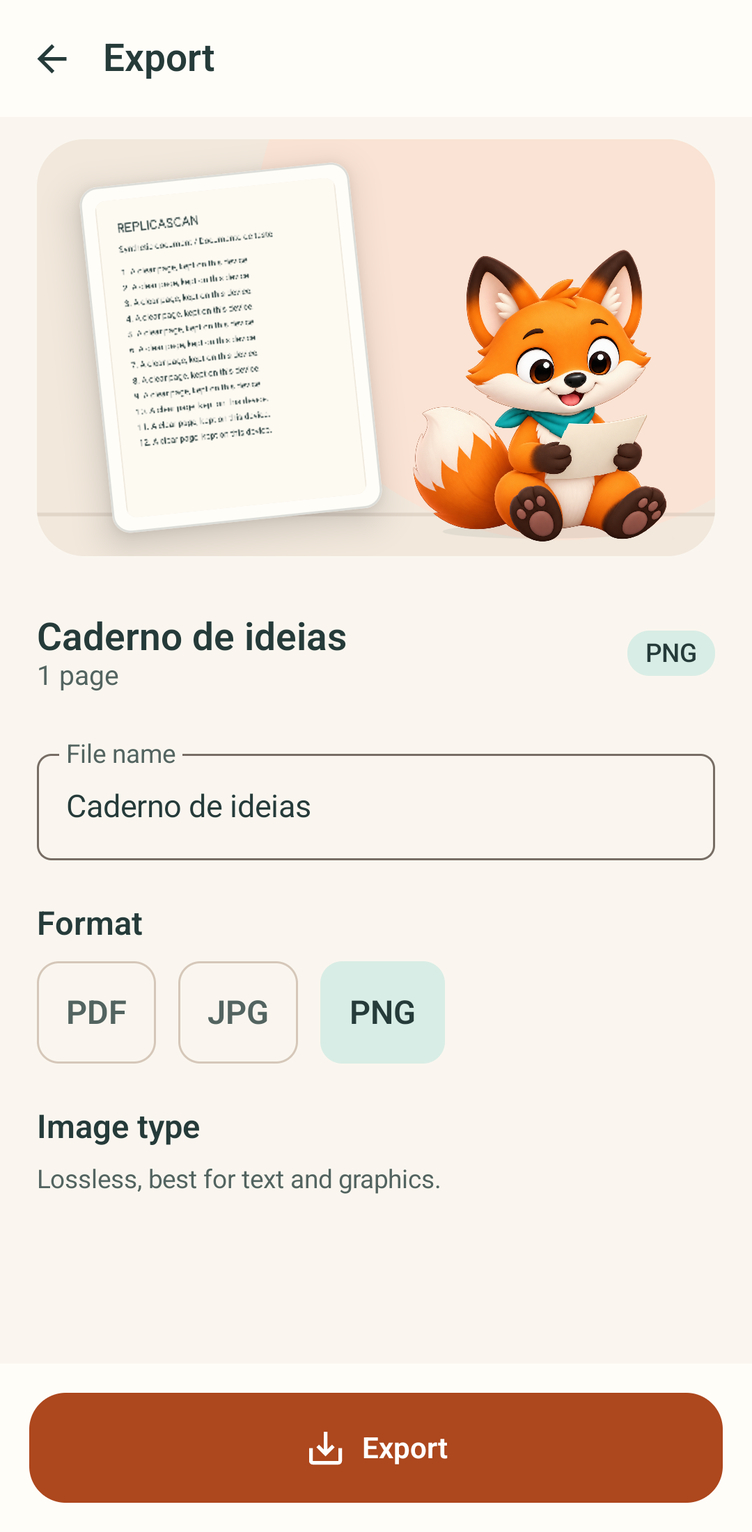
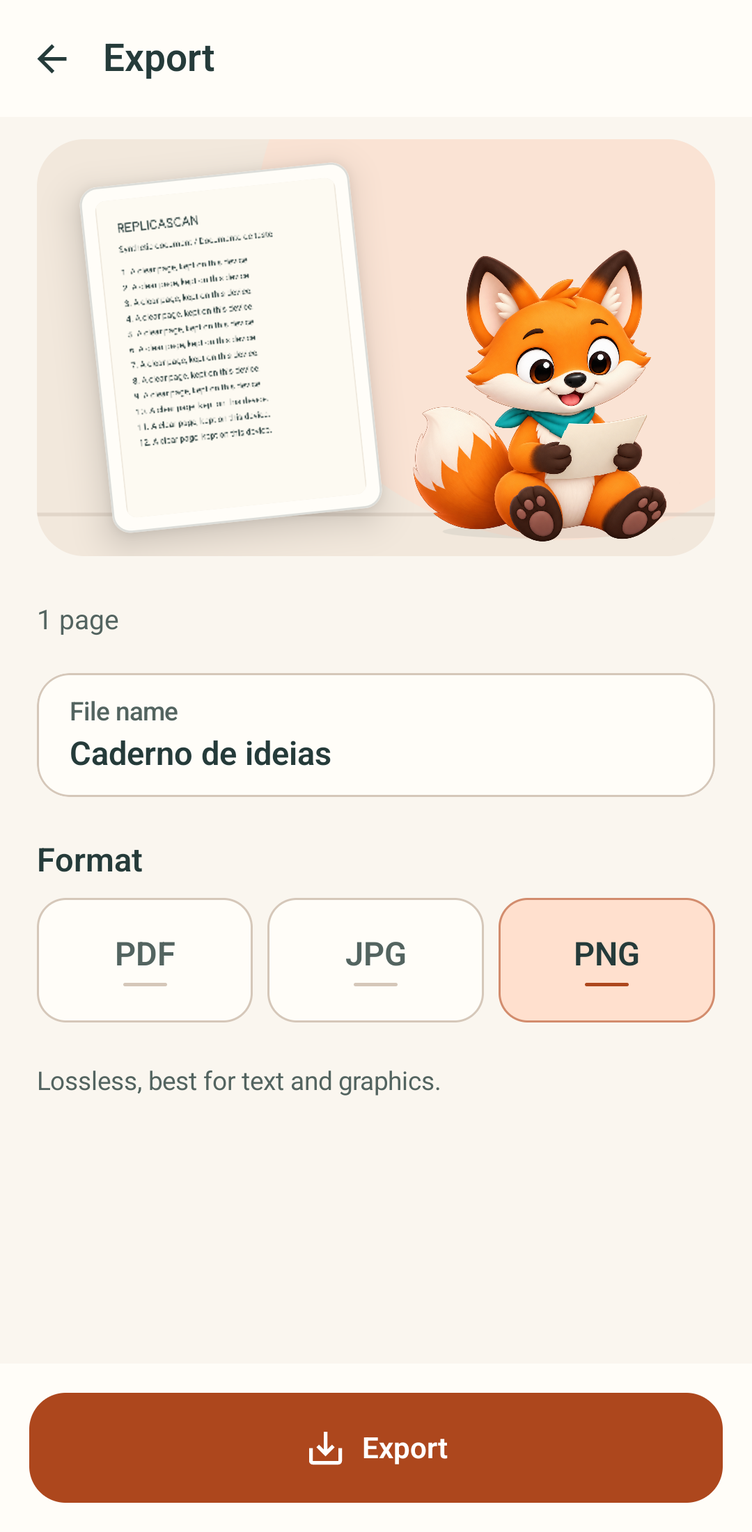
feat(export): refine document-first setup

diff --git a/feature-export/src/main/java/com/soturine/replicascan/feature/export/ExportScreen.kt b/feature-export/src/main/java/com/soturine/replicascan/feature/export/ExportScreen.kt
@@ -3,11 +3,13 @@ package com.soturine.replicascan.feature.export
 import androidx.activity.compose.BackHandler
 import androidx.compose.foundation.layout.Row
 import androidx.compose.foundation.layout.Box
+import androidx.compose.foundation.BorderStroke
 import androidx.compose.foundation.layout.size
 import androidx.compose.foundation.Canvas
 import androidx.compose.foundation.background
 import androidx.compose.foundation.border
-import androidx.compose.material3.OutlinedTextField
+import androidx.compose.foundation.text.BasicTextField
+import androidx.compose.foundation.text.KeyboardOptions
 import androidx.compose.ui.platform.testTag
 import androidx.compose.ui.layout.ContentScale
 import com.soturine.replicascan.core.ui.component.AsyncUriImage
@@ -46,7 +48,6 @@ import androidx.compose.material3.SnackbarHost
 import androidx.compose.material3.SnackbarHostState
 import androidx.compose.material3.Surface
 import androidx.compose.material3.Text
-import androidx.compose.material3.TextButton
 import androidx.compose.material3.TopAppBar
 import androidx.compose.runtime.Composable
 import androidx.compose.runtime.getValue
@@ -61,6 +62,7 @@ import androidx.compose.ui.draw.shadow
 import androidx.compose.ui.geometry.Offset
 import androidx.compose.ui.graphics.graphicsLayer
 import androidx.compose.ui.graphics.luminance
+import androidx.compose.ui.graphics.SolidColor
 import androidx.compose.ui.platform.LocalDensity
 import androidx.compose.foundation.shape.RoundedCornerShape
 import androidx.compose.ui.res.pluralStringResource
@@ -68,8 +70,11 @@ import androidx.compose.ui.res.stringResource
 import androidx.compose.ui.semantics.LiveRegionMode
 import androidx.compose.ui.semantics.heading
 import androidx.compose.ui.semantics.liveRegion
+import androidx.compose.ui.semantics.contentDescription
+import androidx.compose.ui.semantics.selected
 import androidx.compose.ui.semantics.semantics
 import androidx.compose.ui.text.style.TextAlign
+import androidx.compose.ui.text.input.ImeAction
 import androidx.compose.ui.unit.dp
 import com.soturine.replicascan.core.common.model.ExportFormat
 import com.soturine.replicascan.core.common.model.ExportedFile
@@ -134,6 +139,7 @@ fun ExportScreen(
                         ReplicaScanPrimaryButton(
                             text = stringResource(R.string.export_action),
                             onClick = { onExport(nameValidation.sanitizedValue) },
+                            modifier = Modifier.testTag("export-action"),
                             enabled = nameValidation.isValid && scan.pages.isNotEmpty(),
                             icon = {
                                 Icon(Icons.Outlined.SaveAlt, contentDescription = null)
@@ -206,24 +212,12 @@ private fun ExportOptions(
                     scan = scan,
                     mascotState = if (errorText == null) ReplicaScanMascotState.Ocr else ReplicaScanMascotState.Attention,
                 )
-                Row(
-                    Modifier.fillMaxWidth().padding(top = 16.dp, bottom = 8.dp),
-                    verticalAlignment = Alignment.CenterVertically,
-                    horizontalArrangement = Arrangement.spacedBy(12.dp),
-                ) {
-                    Column(Modifier.weight(1f)) {
-                        Text(scan.title, style = MaterialTheme.typography.titleLarge)
-                        Text(
-                            pluralStringResource(R.plurals.export_summary, pageCount, pageCount),
-                            style = MaterialTheme.typography.bodyMedium,
-                            color = MaterialTheme.colorScheme.onSurfaceVariant,
-                        )
-                    }
-                    Surface(shape = MaterialTheme.shapes.small, color = MaterialTheme.colorScheme.secondaryContainer) {
-                        Text(state.selectedFormat.title, modifier = Modifier.padding(horizontal = 10.dp, vertical = 4.dp),
-                            style = MaterialTheme.typography.labelMedium)
-                    }
-                }
+                Text(
+                    pluralStringResource(R.plurals.export_summary, pageCount, pageCount),
+                    modifier = Modifier.padding(top = 10.dp, bottom = 4.dp),
+                    style = MaterialTheme.typography.bodyMedium,
+                    color = MaterialTheme.colorScheme.onSurfaceVariant,
+                )
             }
             if (errorText != null) {
                 Column(
@@ -238,20 +232,44 @@ private fun ExportOptions(
                     Text(errorText, style = MaterialTheme.typography.bodyMedium)
                 }
             }
-            OutlinedTextField(value = fileName, onValueChange = onNameChange, modifier = Modifier.fillMaxWidth(),
-                label = { Text(stringResource(R.string.export_filename)) }, singleLine = true, isError = !nameValid,
-                supportingText = if (!nameValid) ({ Text(stringResource(R.string.export_filename_invalid)) }) else null)
+            ExportFilenameField(fileName, onNameChange, nameValid)
             Section(stringResource(R.string.export_format_section)) {
-                FlowRow(horizontalArrangement = Arrangement.spacedBy(12.dp)) {
+                Row(horizontalArrangement = Arrangement.spacedBy(8.dp), modifier = Modifier.fillMaxWidth()) {
                     ExportFormat.entries.forEach { format ->
-                        FilterChip(selected = state.selectedFormat == format, onClick = { onSelectFormat(format) },
-                            label = { Text(format.title, style = MaterialTheme.typography.titleMedium) },
-                            modifier = Modifier.heightIn(min = 56.dp).testTag("format-${format.name}"))
+                        ExportFormatChoice(
+                            format = format,
+                            selected = state.selectedFormat == format,
+                            onClick = { onSelectFormat(format) },
+                            modifier = Modifier.weight(1f).testTag("format-${format.name}"),
+                        )
                     }
                 }
             }
             if (isPdf) {
-                Section(stringResource(R.string.export_quality_section)) {
+                Surface(
+                    onClick = { moreOptions = !moreOptions },
+                    modifier = Modifier.fillMaxWidth().padding(top = 8.dp).testTag("export-quality-disclosure"),
+                    shape = RoundedCornerShape(18.dp),
+                    color = MaterialTheme.colorScheme.surfaceContainerLow,
+                ) {
+                    Row(
+                        Modifier.padding(horizontal = 16.dp, vertical = 14.dp),
+                        verticalAlignment = Alignment.CenterVertically,
+                        horizontalArrangement = Arrangement.spacedBy(12.dp),
+                    ) {
+                        Column(Modifier.weight(1f), verticalArrangement = Arrangement.spacedBy(2.dp)) {
+                            Text(stringResource(R.string.export_quality_section), style = MaterialTheme.typography.labelMedium,
+                                color = MaterialTheme.colorScheme.onSurfaceVariant)
+                            Text(state.selectedQuality.localizedTitle(), style = MaterialTheme.typography.titleMedium)
+                            Text(state.selectedQuality.localizedDescription(), style = MaterialTheme.typography.bodySmall,
+                                color = MaterialTheme.colorScheme.onSurfaceVariant)
+                        }
+                        Icon(if (moreOptions) Icons.Outlined.ExpandLess else Icons.Outlined.ExpandMore,
+                            contentDescription = null)
+                    }
+                }
+                AnimatedVisibility(visible = moreOptions) {
+                    Column(Modifier.fillMaxWidth().padding(top = 8.dp), verticalArrangement = Arrangement.spacedBy(8.dp)) {
                     FlowRow(horizontalArrangement = Arrangement.spacedBy(8.dp)) {
                         PdfQuality.entries.forEach { quality ->
                             FilterChip(
@@ -262,18 +280,6 @@ private fun ExportOptions(
                             )
                         }
                     }
-                    Text(
-                        text = state.selectedQuality.localizedDescription(),
-                        style = MaterialTheme.typography.bodySmall,
-                        color = MaterialTheme.colorScheme.onSurfaceVariant,
-                    )
-                }
-                TextButton(onClick = { moreOptions = !moreOptions }) {
-                    Text(stringResource(R.string.export_more_options))
-                    Spacer(Modifier.width(4.dp))
-                    Icon(if (moreOptions) Icons.Outlined.ExpandLess else Icons.Outlined.ExpandMore, contentDescription = null)
-                }
-                AnimatedVisibility(visible = moreOptions) {
                     Section(stringResource(R.string.export_page_size_section)) {
                         FlowRow(horizontalArrangement = Arrangement.spacedBy(8.dp)) {
                             PdfPageSize.entries.forEach { size ->
@@ -294,18 +300,77 @@ private fun ExportOptions(
                             }
                         }
                     }
+                    }
                 }
             } else {
-                Section(stringResource(R.string.export_image_format_section)) {
-                    Text(
-                        text = stringResource(
-                            if (state.selectedFormat == ExportFormat.PNG) R.string.export_png_description else R.string.export_jpg_description,
-                        ),
-                        style = MaterialTheme.typography.bodySmall,
-                        color = MaterialTheme.colorScheme.onSurfaceVariant,
-                    )
-                }
+                Text(
+                    text = stringResource(
+                        if (state.selectedFormat == ExportFormat.PNG) R.string.export_png_description else R.string.export_jpg_description,
+                    ),
+                    modifier = Modifier.padding(top = 8.dp),
+                    style = MaterialTheme.typography.bodySmall,
+                    color = MaterialTheme.colorScheme.onSurfaceVariant,
+                )
             }
+        }
+    }
+}
+
+@Composable
+private fun ExportFilenameField(value: String, onValueChange: (String) -> Unit, isValid: Boolean) {
+    val colors = MaterialTheme.colorScheme
+    val label = stringResource(R.string.export_filename)
+    val shape = RoundedCornerShape(18.dp)
+    Column(verticalArrangement = Arrangement.spacedBy(4.dp)) {
+        BasicTextField(
+            value = value,
+            onValueChange = onValueChange,
+            modifier = Modifier.fillMaxWidth().clip(shape)
+                .background(colors.surfaceContainerLow)
+                .border(1.dp, if (isValid) colors.outlineVariant else colors.error, shape)
+                .testTag("export-filename")
+                .semantics { contentDescription = label },
+            textStyle = MaterialTheme.typography.titleMedium.copy(color = colors.onSurface),
+            singleLine = true,
+            cursorBrush = SolidColor(colors.primary),
+            keyboardOptions = KeyboardOptions(imeAction = ImeAction.Done),
+            decorationBox = { innerTextField ->
+                Column(Modifier.padding(horizontal = 18.dp, vertical = 13.dp),
+                    verticalArrangement = Arrangement.spacedBy(4.dp)) {
+                    Text(label, style = MaterialTheme.typography.labelMedium, color = colors.onSurfaceVariant)
+                    Box(Modifier.fillMaxWidth()) {
+                        if (value.isEmpty()) Text(label, style = MaterialTheme.typography.titleMedium,
+                            color = colors.onSurfaceVariant)
+                        innerTextField()
+                    }
+                }
+            },
+        )
+        if (!isValid) Text(stringResource(R.string.export_filename_invalid),
+            style = MaterialTheme.typography.bodySmall, color = colors.error)
+    }
+}
+
+@Composable
+private fun ExportFormatChoice(format: ExportFormat, selected: Boolean, onClick: () -> Unit, modifier: Modifier = Modifier) {
+    val colors = MaterialTheme.colorScheme
+    Surface(
+        onClick = onClick,
+        modifier = modifier.heightIn(min = 68.dp).semantics { this.selected = selected },
+        shape = RoundedCornerShape(16.dp),
+        color = if (selected) colors.primaryContainer else colors.surfaceContainerLow,
+        border = BorderStroke(1.dp, if (selected) colors.primary.copy(alpha = .55f) else colors.outlineVariant),
+    ) {
+        Column(
+            Modifier.padding(horizontal = 8.dp, vertical = 12.dp),
+            horizontalAlignment = Alignment.CenterHorizontally,
+            verticalArrangement = Arrangement.spacedBy(5.dp, Alignment.CenterVertically),
+        ) {
+            Text(format.title, style = MaterialTheme.typography.titleMedium,
+                color = if (selected) colors.onPrimaryContainer else colors.onSurfaceVariant)
+            Box(Modifier.width(24.dp).height(2.dp).background(
+                if (selected) colors.primary else colors.outlineVariant,
+                RoundedCornerShape(2.dp)))
         }
     }
 }

diff --git a/docs/design/visual-recovery/evidence/review.html b/docs/design/visual-recovery/evidence/review.html
@@ -24,7 +24,7 @@
   <p>À esquerda, a captura rejeitada do ciclo anterior. À direita, o estado atual renderizado pelo Compose no emulador Android 14 / API 34, com documento sintético e estados injetados. A prévia de exportação em andamento foi recapturada após a mudança funcional. Esta prancha é evidência para revisão, não aceite estético nem prova de câmera, OCR ou exportação reais.</p>
   <nav aria-label="Ir para tela">
     <a href="#home">Home</a><a href="#large-type">Fonte 200%</a><a href="#review">Revisão</a><a href="#crop">Recorte</a>
-    <a href="#export">Exportação</a><a href="#export-eyes">Olhos da raposa</a><a href="#progress">Progresso</a><a href="#success">Sucesso</a>
+    <a href="#export">Exportação</a><a href="#export-setup">Preparo refinado</a><a href="#export-eyes">Olhos da raposa</a><a href="#progress">Progresso</a><a href="#success">Sucesso</a>
     <a href="#onboarding">Introdução</a><a href="#ocr">OCR</a><a href="#history">Histórico</a><a href="#search-empty">Busca vazia</a>
     <a href="#settings">Configurações</a><a href="#launcher">Ícone</a>
   </nav>
@@ -33,6 +33,7 @@
   <section id="review"><h2>Revisão</h2><div class="pair"><figure><figcaption>Anterior</figcaption><img src="../../evidence/review.png" alt="Revisão anterior"></figure><figure><figcaption>Atual</figcaption><img src="review.png" alt="Revisão atual"></figure></div></section>
   <section id="crop"><h2>Recorte</h2><div class="pair"><figure><figcaption>Anterior</figcaption><img src="../../evidence/crop.png" alt="Recorte anterior"></figure><figure><figcaption>Atual</figcaption><img src="crop.png" alt="Recorte atual"></figure></div></section>
   <section id="export"><h2>Opções de exportação</h2><div class="pair"><figure><figcaption>Anterior</figcaption><img src="../../evidence/export.png" alt="Opções anteriores"></figure><figure><figcaption>Atual</figcaption><img src="export.png" alt="Opções atuais"></figure></div></section>
+  <section id="export-setup"><h2>Preparo do arquivo · rodada de acabamento</h2><p>O documento e a raposa continuam na cena. A captura atual tira o título repetido, integra o nome editável, torna PDF/JPG/PNG escolhas mais legíveis e recolhe a qualidade e o tamanho da página atrás de uma seleção contextual.</p><div class="pair"><figure><figcaption>Antes · campo e chips</figcaption><img src="export-setup-before.png" alt="Preparo anterior com campo contornado e chips"></figure><figure><figcaption>Depois · arquivo e escolhas</figcaption><img src="export.png" alt="Preparo atual com nome de arquivo, formatos e qualidade contextual"></figure></div></section>
   <section id="export-eyes"><h2>Correção da piscada na exportação</h2><p>A máscara da piscada deixava aparecer o contorno dos olhos abertos sobre as pálpebras fechadas. A captura atual mostra a piscada limpa; a tela de exportação acima foi recapturada com os olhos abertos.</p><div class="pair"><figure><figcaption>Antes · contorno duplicado</figcaption><img src="export-eye-before.png" alt="Raposa piscando com traços duplicados acima das pálpebras"></figure><figure><figcaption>Depois · piscada corrigida</figcaption><img src="export-blink.png" alt="Raposa piscando sem traços duplicados"></figure></div></section>
   <section id="progress"><h2>Exportação em andamento</h2><div class="pair"><figure><figcaption>Anterior</figcaption><img src="../../evidence/export-progress.png" alt="Progresso anterior"></figure><figure><figcaption>Atual</figcaption><img src="export-progress.png" alt="Progresso atual com prévia e raposa trabalhando"></figure></div></section>
   <section id="success"><h2>Exportação concluída</h2><div class="pair"><figure><figcaption>Anterior</figcaption><img src="../../evidence/export-success.png" alt="Sucesso anterior"></figure><figure><figcaption>Atual</figcaption><img src="export-success.png" alt="Sucesso atual"></figure></div></section>

diff --git a/app/src/androidTest/java/com/soturine/replicascan/RebrandVisualTest.kt b/app/src/androidTest/java/com/soturine/replicascan/RebrandVisualTest.kt
@@ -161,6 +161,32 @@ class RebrandVisualTest {
         assertTrue(quad.bottomRight.x < 1f && quad.bottomRight.y < 1f)
     }
 
+    @Test fun exportChoicesKeepFormatSpecificOptions() {
+        var state by mutableStateOf(ExportUiState(scan = fixture()))
+        rule.setContent {
+            ReplicaScanTheme {
+                ExportScreen(
+                    state = state,
+                    onSelectFormat = { state = state.copy(selectedFormat = it) },
+                    onSelectQuality = { state = state.copy(selectedQuality = it) },
+                    onSelectPageSize = { state = state.copy(selectedPageSize = it) },
+                    onExport = {}, onShare = {}, onOpenFile = {}, onBack = {}, onClearMessage = {},
+                )
+            }
+        }
+        rule.onNodeWithTag("format-JPG").performClick()
+        rule.runOnIdle { assertEquals(ExportFormat.JPG, state.selectedFormat) }
+        rule.onNodeWithTag("export-quality-disclosure").assertDoesNotExist()
+        rule.onNodeWithTag("format-PDF").performClick()
+        rule.onNodeWithTag("export-quality-disclosure").performClick()
+        rule.onNodeWithText(context.getString(com.soturine.replicascan.feature.export.R.string.export_page_size_section))
+            .assertExists()
+        rule.onNodeWithTag("export-filename").performTextClearance()
+        rule.onNodeWithTag("export-action").assertIsNotEnabled()
+        rule.onNodeWithTag("export-filename").performTextInput("Novo arquivo")
+        rule.onNodeWithTag("export-action").assertIsEnabled()
+    }
+
     @Test fun launcherMasksAndSizes() {
         rule.setContent {
             ReplicaScanTheme {

diff --git a/README.md b/README.md
@@ -27,7 +27,7 @@ Não há conta, backend, sincronização ou upload obrigatório de documentos. C
 
 ## Redesign e evidência
 
-A base da v0.4.1 traz papel marfim, tinta petróleo e terracota, revisão de telas, crop com cantos independentes e exportação com nome de arquivo, progresso e recuperação persistente. O visual do ciclo anterior foi rejeitado pelo proprietário. Um novo master e sete poses baseados na raposa da v0.4.0 receberam aceite como arte estática. A pose de atenção teve patas extras corrigidas e um rig candidato com camadas independentes foi capturado no Android. A Home integra a raposa à cena de papel e prioriza Escanear inclusive com fonte 200%; a introdução apresenta três cenas abertas de folha e raposa. A exportação conecta prévia real e raposa em preparo, progresso, sucesso e erro; a piscada da pose de leitura foi corrigida após a inspeção de seus olhos fechados. Revisão, recorte e filtros compartilham a luz e a profundidade do papel sem mudar os controles de edição; OCR reúne o texto selecionável em uma folha. Histórico vazio e busca sem resultados mostram a raposa sem cartão pesado. Detalhe prioriza a página única e configurações usam grupos leves. A opção 4 foi escolhida como candidata final do ícone; animação e conjunto das telas continuam sem aceite final.
+A base da v0.4.1 traz papel marfim, tinta petróleo e terracota, revisão de telas, crop com cantos independentes e exportação com nome de arquivo, progresso e recuperação persistente. O visual do ciclo anterior foi rejeitado pelo proprietário. Um novo master e sete poses baseados na raposa da v0.4.0 receberam aceite como arte estática. A pose de atenção teve patas extras corrigidas e um rig candidato com camadas independentes foi capturado no Android. A Home integra a raposa à cena de papel e prioriza Escanear inclusive com fonte 200%; a introdução apresenta três cenas abertas de folha e raposa. A exportação conecta prévia real e raposa em preparo, progresso, sucesso e erro; o preparo agora integra nome e formatos com qualidade progressiva, e a piscada da pose de leitura foi corrigida. Revisão, recorte e filtros compartilham a luz e a profundidade do papel sem mudar os controles de edição; OCR reúne o texto selecionável em uma folha. Histórico vazio e busca sem resultados mostram a raposa sem cartão pesado. Detalhe prioriza a página única e configurações usam grupos leves. A opção 4 foi escolhida como candidata final do ícone; animação e conjunto das telas continuam sem aceite final.
 
 Veja a [auditoria de recuperação visual](docs/design/visual-recovery/AUDIT.md), a [prancha das poses](docs/design/visual-recovery/candidates/review.html), o [clipe e as capturas Android atuais](docs/design/visual-recovery/evidence/README.md), os [novos ícones candidatos](docs/design/visual-recovery/icon-candidates/index.html), a [revisão por tela](docs/design/visual-recovery/SCREEN_REVIEW.md) e a [matriz de validação](docs/design/visual-recovery/VALIDATION_MATRIX.md). O material novo usa estados injetados e documento sintético; não substitui QA físico, TalkBack humano, revisão linguística nativa ou aceite final.
 

diff --git a/docs/design/visual-recovery/SCREEN_REVIEW.md b/docs/design/visual-recovery/SCREEN_REVIEW.md
@@ -13,7 +13,7 @@ automaticamente todas as telas, o movimento ou a release.
 | Onboarding (3 páginas) | Saudação, leitura e sucesso acompanham escanear, revisar e guardar em uma cena de folha e raposa sem cartão isolado; a composição compacta preserva título, corpo e botão com fonte 200%. A sequência ainda precisa de inspeção física de swipe/RTL. | Capturas Android das três páginas e 200%; aceite pendente |
 | Revisão, crop e filtros | Review/Crop/filtros dão luz e profundidade à mesma página nativa. O recorte mantém quatro cantos e página inteira por padrão; controles, gesto e geometria não foram movidos. | Capturados em claro; Review também em escuro/RTL/fonte 200%; QA físico pendente |
 | OCR carregando, pronto e vazio | Parágrafos ficam em uma folha selecionável, com cópia e idioma preservados. Carregamento e vazio mantêm a raposa; estados de modelo e seleção precisam inspeção com OCR real e TalkBack. | Capturado com estado injetado; fluxo real pendente |
-| Exportação: PDF/JPG/PNG | Prévia, quantidade de páginas e formato atual agora formam uma superfície única; nome, qualidade e tamanho continuam editáveis e progressivos. Estado escuro com fonte 200% exige rolagem para opções inferiores. | Implementado; capturas API 34; aceite pendente |
+| Exportação: PDF/JPG/PNG | Documento e raposa abrem a tarefa; nome editável, página, três formatos e qualidade contextual formam uma hierarquia sem título duplicado. Tamanho da página aparece ao expandir qualidade. Em fonte 200%, a área rola sob a ação fixa. | Refinado; capturas Android antes/depois, PDF/JPG/PNG e escuro 200%; aceite pendente |
 | Exportação: progresso, sucesso, erro | A mesma folha real e a raposa acompanham preparo, gravação, sucesso e recuperação, com pose articulada conforme o estado. Sucesso identifica o arquivo e erro preserva opções de nova tentativa. | Capturado com estado injetado; exportação real/aceite pendentes |
 | Histórico, busca, detalhe | Uma biblioteca com só um item deixa espaço livre. Biblioteca vazia e busca sem resultado mostram a pose vazia com texto direto no fundo, sem cartão pesado. Detalhe amplia a página única e mantém a grade em lotes; exportar, editar, favorito, excluir e abrir OCR preservados. Busca e ações documentais devem ser exercitadas em aparelho. | Vazio e busca recapturados; interação pendente |
 | Configurações, idioma, sobre | Grupos em fundo contínuo e divisórias leves tiram o aspecto de cartões repetidos. Opções e alvos de toque preservados. Validar todos os idiomas, RTL e fonte ampliada. | Configurações recapturadas; revisão linguística/QA pendentes |

diff --git a/CHANGELOG.md b/CHANGELOG.md
@@ -4,6 +4,7 @@ Este projeto segue Semantic Versioning e recomenda Conventional Commits no fluxo
 
 ## [Unreleased]
 
+- Preparo da exportação refinado no Android: nome de arquivo integrado à composição, três formatos em escolhas legíveis, qualidade e tamanho de página revelados sob demanda; estados e callbacks de gravação preservados. Capturas antes/depois e variante escura com fonte 200% foram atualizadas.
 - Corrigida a piscada da raposa na preparação da exportação: a máscara agora cobre o contorno dos olhos abertos sem duplicar traços sobre as pálpebras. Capturas Android de olhos abertos e fechados documentam o resultado.
 - Recuperação visual em andamento após rejeição do redesign anterior: master e poses baseados na raposa da v0.4.0 aprovados como arte estática; movimento e telas ainda pendentes de aceite.
 - Rig Compose candidato articula cabeça, cauda, patas, folha e piscadas em camadas de renderização; a pose de atenção teve patas extras removidas. Clipe Android v2 e frames consecutivos publicados para revisão, ainda sem aceite final do movimento.

diff --git a/docs/design/visual-recovery/evidence/README.md b/docs/design/visual-recovery/evidence/README.md
@@ -8,6 +8,15 @@ escrita de exportação. Preparo, gravação, sucesso, erro e aviso da bibliotec
 na exportação foram recapturados em 2026-10-13 com a mesma cena nativa da
 folha real e da raposa, variando a pose conforme o estado.
 
+Em 2026-10-13 o preparo foi recapturado após trocar o campo Material e os chips
+sempre expostos por uma edição de nome integrada, três escolhas de formato e
+qualidade/tamanho de página sob disclosure. `export-setup-before.png` preserva
+o estado Android imediatamente anterior; `export.png`, `export-jpg.png`,
+`export-png.png`, `export-error.png` e `export-dark-200.png` mostram o novo
+estado com fixture sintético. `export-progress.png`, sucesso e warning
+pós-salvamento não mudaram nesta fatia. O teste instrumental também abre o
+disclosure e troca PDF/JPG, mas não grava arquivos reais.
+
 `export-eye-before.png` registra o contorno duplicado que aparecia sobre os olhos
 fechados na pose de leitura. A máscara foi ajustada e `export-blink.png` mostra a
 piscada limpa no Android; `export.png`, `export-jpg.png` e `export-png.png` foram
